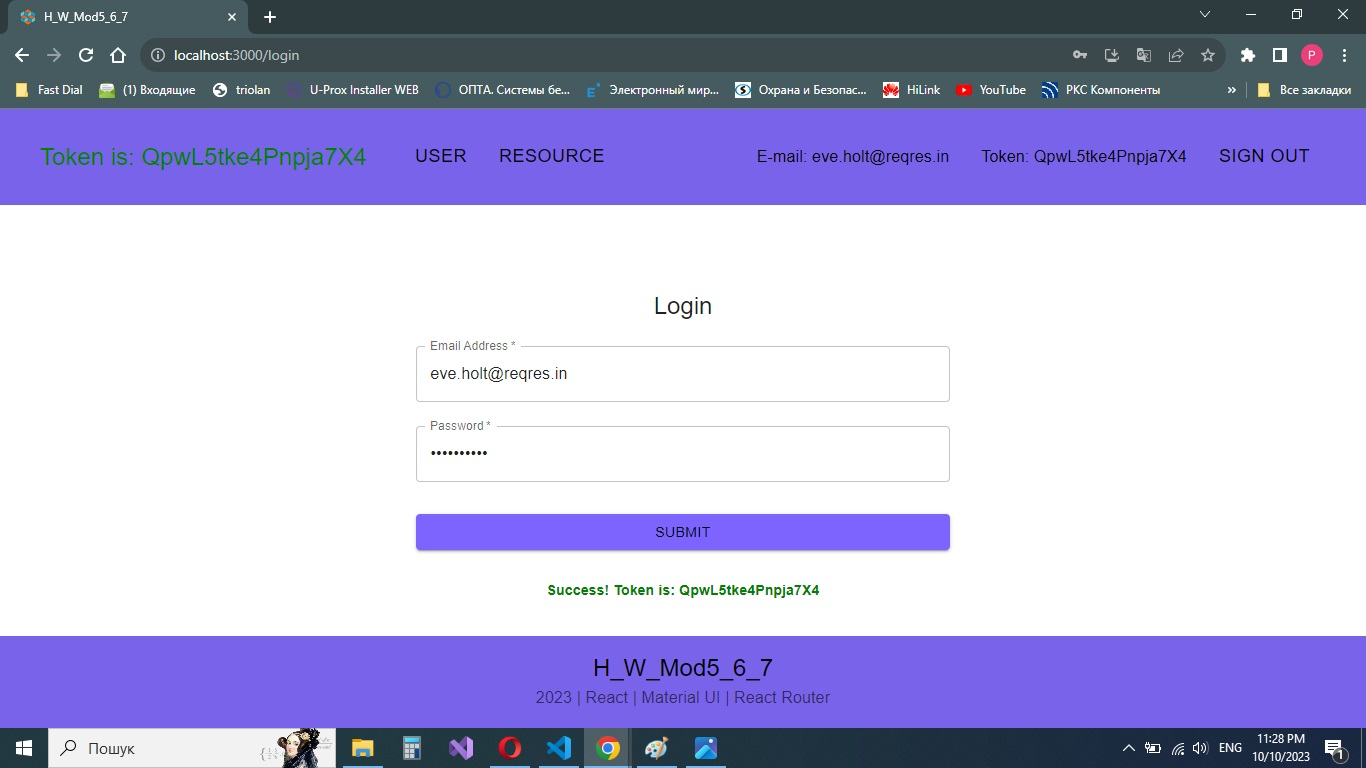
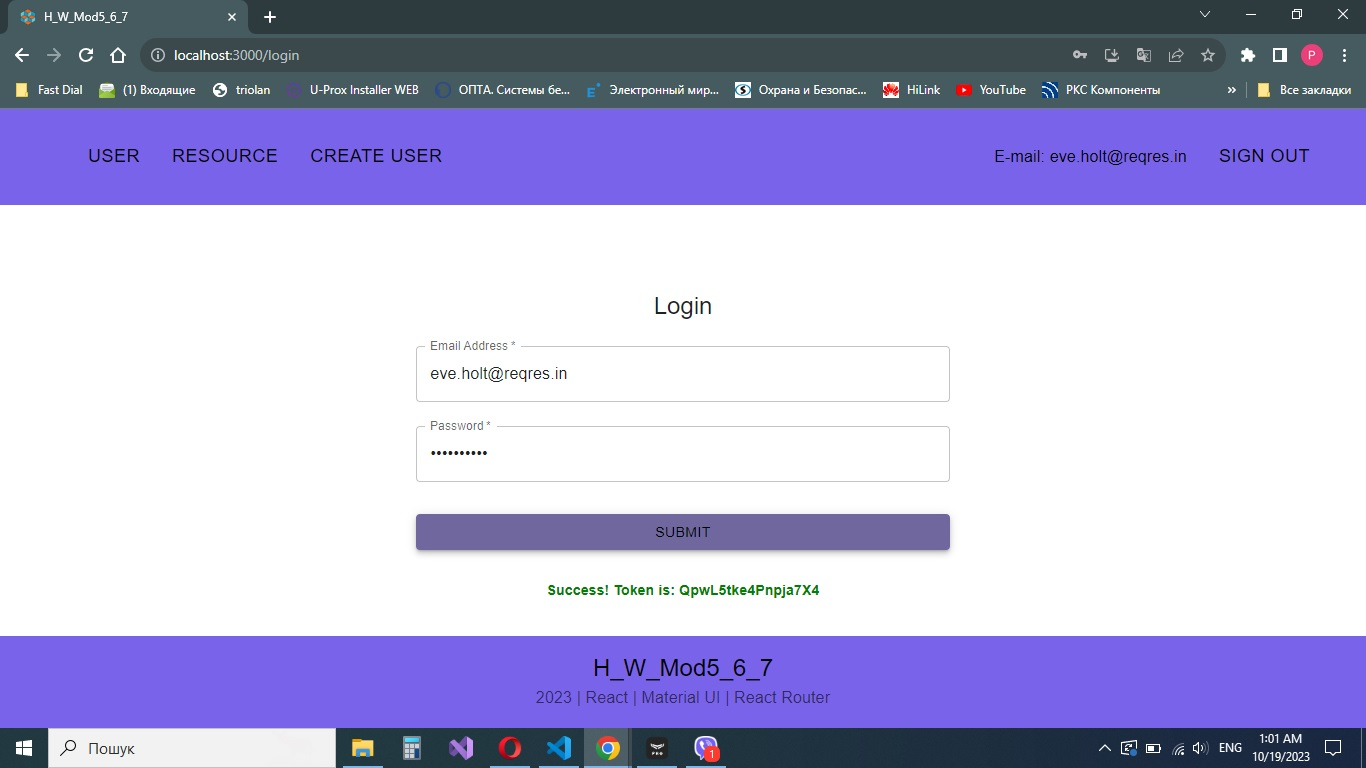
H_W_6-7(add user create v2)

diff --git a/src/pages/CreateUser/CreateUser.tsx b/src/pages/CreateUser/CreateUser.tsx
@@ -1,4 +1,4 @@
-import React, { ReactElement, FC, useEffect, useState } from "react";
+import React, { ReactElement, FC, } from "react";
 import {
   Box,
   Card,
@@ -10,61 +10,12 @@ import {
   Pagination,
   Typography,
 } from "@mui/material";
-import * as userApi from "../../api/modules/users";
-import { IUser } from "../../interfaces/users";
-import { useParams } from "react-router-dom";
 import UserForm from "../../components/UserForm";
 
 const CreateUser: FC<any> = (): ReactElement => {
-  const [user, setUser] = useState<IUser | null>(null);
-  const [isLoading, setIsLoading] = useState<boolean>(false);
-  const { id } = useParams();
-
-  useEffect(() => {
-    if (id) {
-      const getUser = async () => {
-        try {
-          setIsLoading(true);
-          const res = await userApi.getById(id);
-          setUser(res.data);
-        } catch (e) {
-          if (e instanceof Error) {
-            console.error(e.message);
-          }
-        }
-        setIsLoading(false);
-      };
-      getUser();
-    }
-  }, [id]);
-
   return (
     <Container>
-      <Grid container spacing={4} justifyContent="center" m={4}>
-        {isLoading ? (
-          <CircularProgress />
-        ) : (
-          <>
-            <Card sx={{ maxWidth: 250 }}>
-              <CardMedia
-                component="img"
-                height="250"
-                image={user?.avatar}
-                alt={user?.email}
-              />
-              <CardContent>
-                <Typography noWrap gutterBottom variant="h6" component="div">
-                  {user?.email}
-                </Typography>
-                <Typography variant="body2" color="text.secondary">
-                  {user?.first_name} {user?.last_name}
-                </Typography>
-              </CardContent>
-            </Card>
-            {user && <UserForm {...user}></UserForm>}
-          </>
-        )}
-      </Grid>
+      <UserForm />
     </Container>
   );
 };

diff --git a/src/components/UserForm.tsx b/src/components/UserForm.tsx
@@ -4,9 +4,10 @@ import { TextField, Button, Container, Grid, Typography } from "@mui/material";
 import { IUser } from "../interfaces/users";
 import * as userApi from "../api/modules/users";
 import { userUpdate } from "../interfaces/userUpdate";
+import { Console } from "console";
 
-const UserForm: FC<IUser> = (user: IUser): ReactElement => {
-  const [updated, setUpdated] = useState<string>("");
+const UserForm: FC<any> = (user: IUser | undefined): ReactElement => {
+  const [message, setMessage] = useState<string>("");
 
   const {
     register,
@@ -15,10 +16,15 @@ const UserForm: FC<IUser> = (user: IUser): ReactElement => {
   } = useForm<userUpdate>({ defaultValues: user });
 
   const onSubmit: SubmitHandler<userUpdate> = async (data: userUpdate) => {
-    data.id = user.id;
-    const res = await userApi.updateUser(data);
-
-    setUpdated(res.createdAt);
+    
+    if(user?.id) {
+      data.id = user?.id;
+      const res = await userApi.updateUser(data);
+      setMessage(res.createdAt);
+    } else {
+      const res = await userApi.createUser(data);
+      setMessage(res.createdAt);
+    }  
   };
 
   return (
@@ -68,8 +74,8 @@ const UserForm: FC<IUser> = (user: IUser): ReactElement => {
           </Grid>
         </Grid>
       </form>
-      {updated && (
-        <Typography variant="body2">User update at {updated}</Typography>
+      {message && (
+        <Typography variant="body2">User update at {message}</Typography>
       )}
     </Container>
   );

diff --git a/src/components/Navbar.tsx b/src/components/Navbar.tsx
@@ -63,9 +63,7 @@ const Navbar: FC = (): ReactElement => {
               E-mail: {appStore.authStore.email}
             </p>
           </div>
-          <div style={{ marginRight: "1rem" }}>
-            <p style={textStyleSmaller}>Token: {appStore.authStore.token}</p>
-          </div>
+          
           <Link
             onClick={handleLogout}
             key="registration-route"
@@ -142,10 +140,7 @@ const Navbar: FC = (): ReactElement => {
               display: { xs: "none", md: "flex" },
             }}
           >
-            {!!appStore.authStore.token ? (
-              <span
-                style={{ color: 'green' }}>{`Token is: ${appStore.authStore.token}`}</span>
-            ) : 'H_W_Mod5_6_7'}
+            
 
           </Typography>
           <Box sx={{ flexGrow: 1, display: { xs: "flex", md: "none" } }}>
@@ -201,10 +196,7 @@ const Navbar: FC = (): ReactElement => {
             component="div"
             sx={{ flexGrow: 1, display: { xs: "flex", md: "none" } }}
           >
-            {!!appStore.authStore.token ? (
-              <span
-                style={{ color: 'green' }}>{`Token is: ${appStore.authStore.token}`}</span>
-            ) : 'Homework 7'}
+            
           </Typography>
           <Box
             sx={{

diff --git a/src/routes.ts b/src/routes.ts
@@ -7,6 +7,8 @@ import Login from "./pages/Login/Login";
 
 // other
 import {FC} from "react";
+import UserForm from "./components/UserForm";
+import UpdateUser from "./pages/UpdateUser/UpdateUser";
 
 // interface
 interface Route {
@@ -33,10 +35,17 @@ export const routes: Array<Route> = [
         component: Resource
     },
     {
-        key: 'create-user-route',
+        key: 'update-user-route',
         title: '',
         path: '/user/:id',
         enabled: false,
+        component: UpdateUser
+    },
+    {
+        key: 'create-user-route',
+        title: 'Create User',
+        path: '/new-user',
+        enabled: true,
         component: CreateUser
     },
     {

diff --git a/src/api/modules/users.ts b/src/api/modules/users.ts
@@ -19,3 +19,10 @@ export const updateUser = (user: userUpdate) =>
     method: "POST",
     data: user,
   });
+  
+  export const createUser = (user:  userUpdate) =>
+  apiClient({
+    path: `users`,
+    method: "POST",
+    data: user,
+  });

diff --git a/src/interfaces/userUpdate.ts b/src/interfaces/userUpdate.ts
@@ -1,5 +1,5 @@
 export interface userUpdate {
-    id: number;
+    id: number | undefined;
     first_name: string;
     last_name: string;
     email: string;
